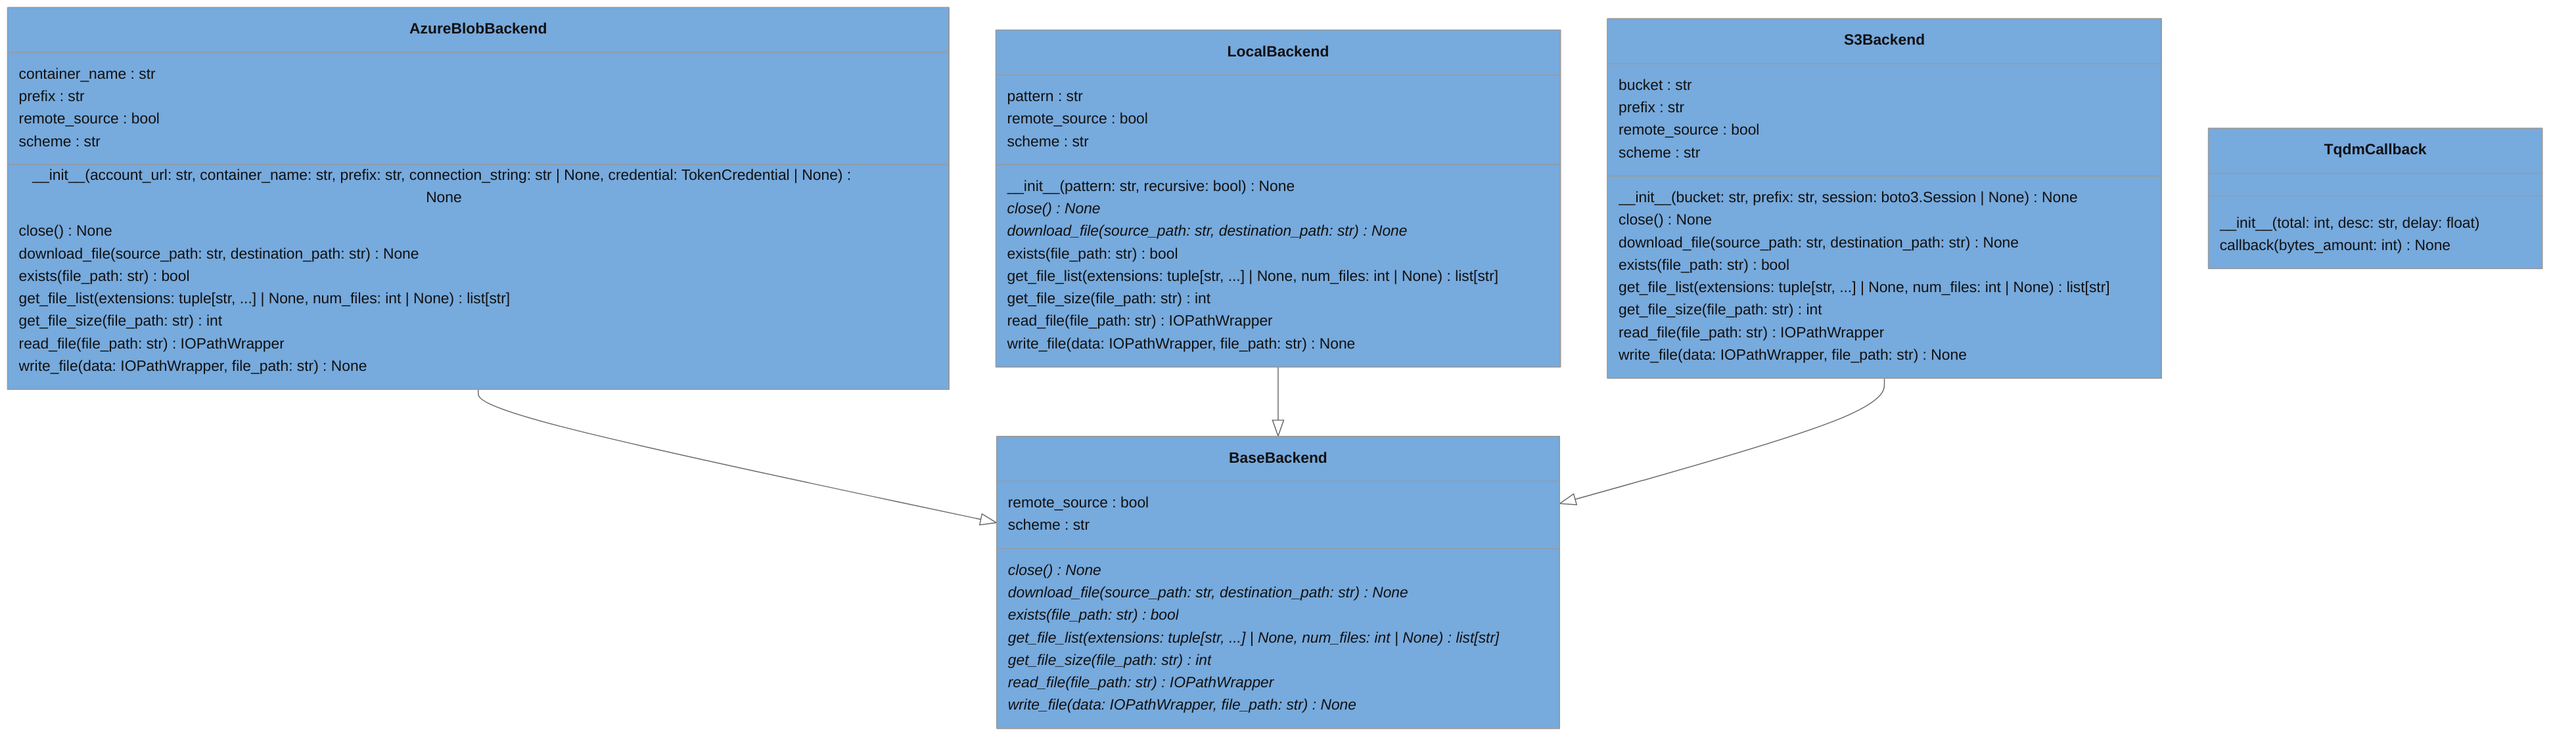
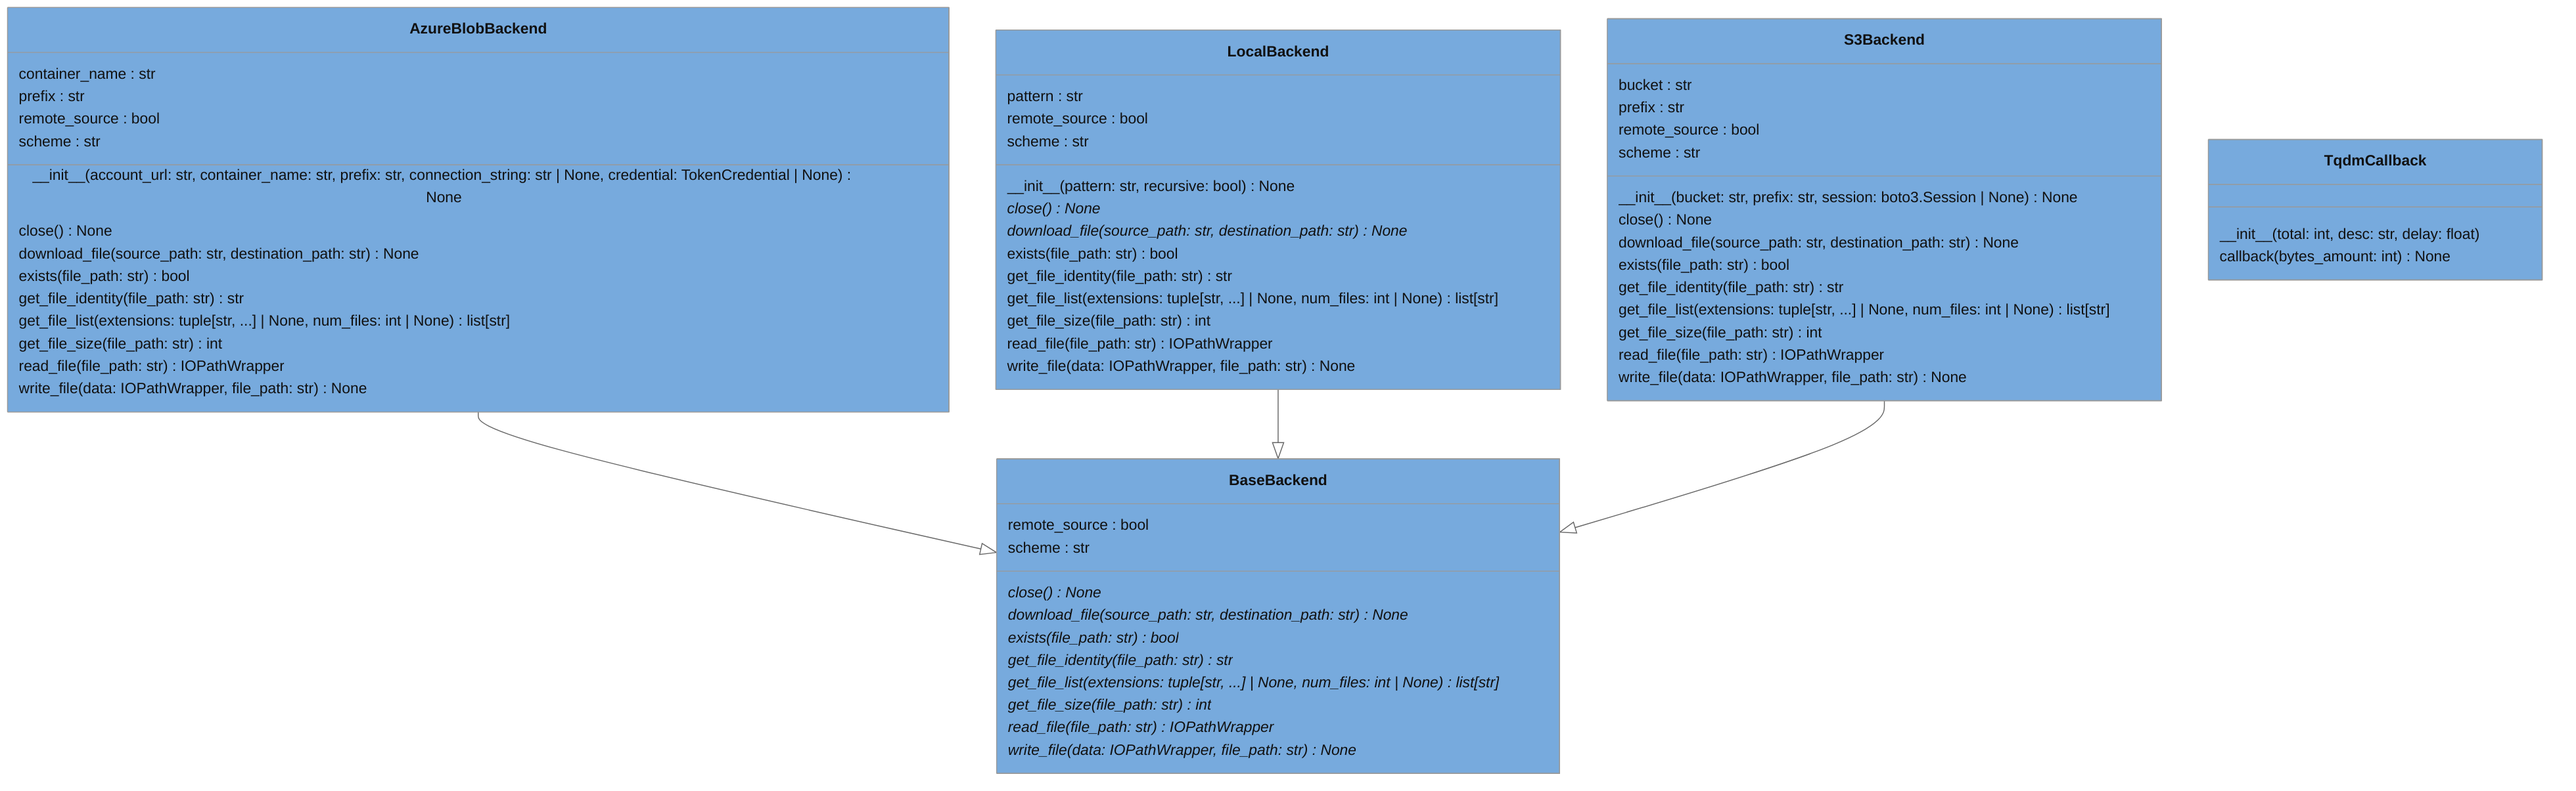
Release 0.3.3 (#346)
* Bump version: 0.3.3dev → 0.3.3

* Update mermaid diagrams

---------

diff --git a/src/pythermondt/__pkginfo__.py b/src/pythermondt/__pkginfo__.py
@@ -1,1 +1,1 @@
-__version__ = "0.3.3dev"
+__version__ = "0.3.3"
